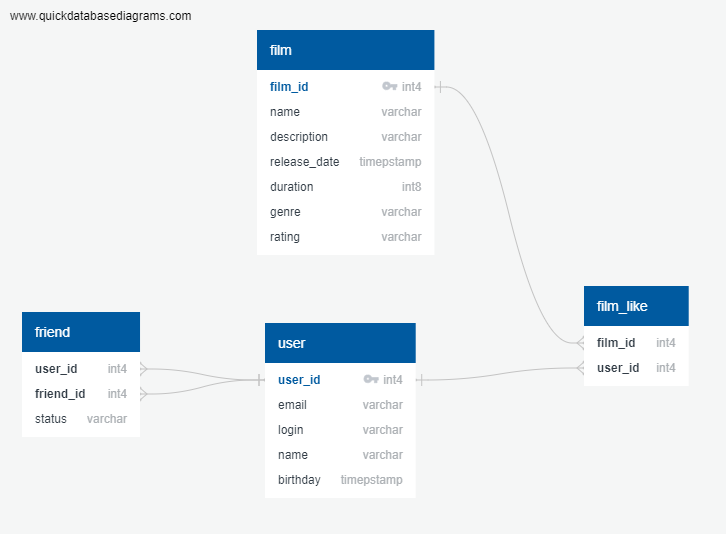
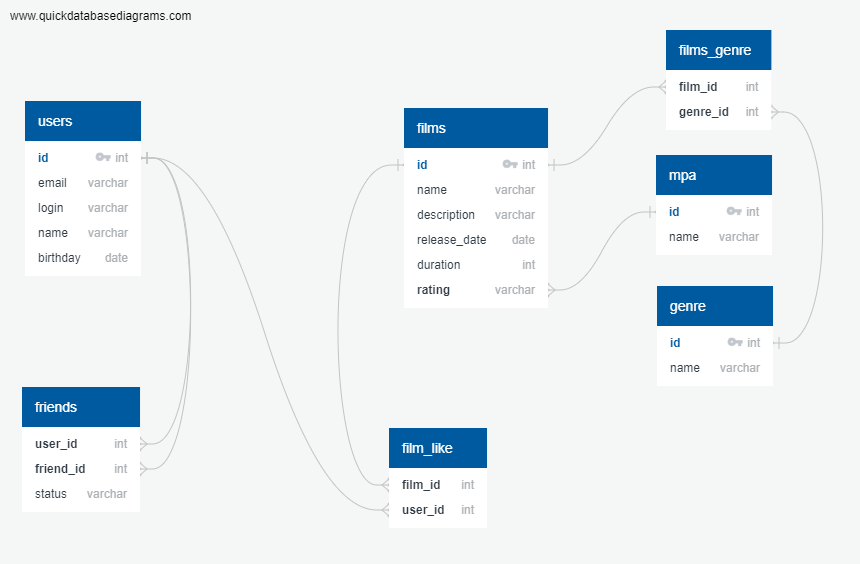
feat: Реализована база данных и сохранение в нее информации

diff --git a/src/main/java/ru/yandex/practicum/filmorate/storage/genre/GenreDbStorage.java b/src/main/java/ru/yandex/practicum/filmorate/storage/genre/GenreDbStorage.java
@@ -1,0 +1,2 @@
+package ru.yandex.practicum.filmorate.storage.genre;public class GenreDbStorage {
+}

diff --git a/src/main/java/ru/yandex/practicum/filmorate/controller/GenreController.java b/src/main/java/ru/yandex/practicum/filmorate/controller/GenreController.java
@@ -1,0 +1,2 @@
+package ru.yandex.practicum.filmorate.controller;public class GenreController {
+}

diff --git a/src/main/java/ru/yandex/practicum/filmorate/storage/film/FilmDbStorage.java b/src/main/java/ru/yandex/practicum/filmorate/storage/film/FilmDbStorage.java
@@ -1,0 +1,2 @@
+package ru.yandex.practicum.filmorate.storage.film;public class FilmDbStorage {
+}

diff --git a/src/main/java/ru/yandex/practicum/filmorate/storage/genre/GenreStorage.java b/src/main/java/ru/yandex/practicum/filmorate/storage/genre/GenreStorage.java
@@ -1,0 +1,2 @@
+package ru.yandex.practicum.filmorate.storage.genre;public class GenreStorage {
+}

diff --git a/src/main/java/ru/yandex/practicum/filmorate/storage/user/UserDbStorage.java b/src/main/java/ru/yandex/practicum/filmorate/storage/user/UserDbStorage.java
@@ -1,0 +1,2 @@
+package ru.yandex.practicum.filmorate.storage.user;public class UserDbStorage {
+}

diff --git a/src/main/java/ru/yandex/practicum/filmorate/controller/MpaController.java b/src/main/java/ru/yandex/practicum/filmorate/controller/MpaController.java
@@ -1,0 +1,2 @@
+package ru.yandex.practicum.filmorate.controller;public class MpaController {
+}

diff --git a/src/main/java/ru/yandex/practicum/filmorate/storage/mpa/MpaDbStorage.java b/src/main/java/ru/yandex/practicum/filmorate/storage/mpa/MpaDbStorage.java
@@ -1,0 +1,2 @@
+package ru.yandex.practicum.filmorate.storage.mpa;public class MpaDbStorage {
+}

diff --git a/src/test/java/ru/yandex/practicum/filmorate/storage/GenreStorageTest.java b/src/test/java/ru/yandex/practicum/filmorate/storage/GenreStorageTest.java
@@ -1,0 +1,2 @@
+package ru.yandex.practicum.filmorate.storage;public class GenreStorageTest {
+}

diff --git a/src/test/java/ru/yandex/practicum/filmorate/storage/FilmStorageTest.java b/src/test/java/ru/yandex/practicum/filmorate/storage/FilmStorageTest.java
@@ -1,0 +1,2 @@
+package ru.yandex.practicum.filmorate.storage;public class FilmStorageTest {
+}

diff --git a/src/test/java/ru/yandex/practicum/filmorate/storage/UserStorageTest.java b/src/test/java/ru/yandex/practicum/filmorate/storage/UserStorageTest.java
@@ -1,0 +1,2 @@
+package ru.yandex.practicum.filmorate.storage;public class UserStorageTest {
+}

diff --git a/src/main/java/ru/yandex/practicum/filmorate/model/FriendshipStatus.java b/src/main/java/ru/yandex/practicum/filmorate/model/FriendshipStatus.java
@@ -1,0 +1,2 @@
+package ru.yandex.practicum.filmorate.model;public class FriendshipStatus {
+}

diff --git a/src/main/java/ru/yandex/practicum/filmorate/storage/mpa/MpaStorage.java b/src/main/java/ru/yandex/practicum/filmorate/storage/mpa/MpaStorage.java
@@ -1,0 +1,2 @@
+package ru.yandex.practicum.filmorate.storage.mpa;public class MpaStorage {
+}
